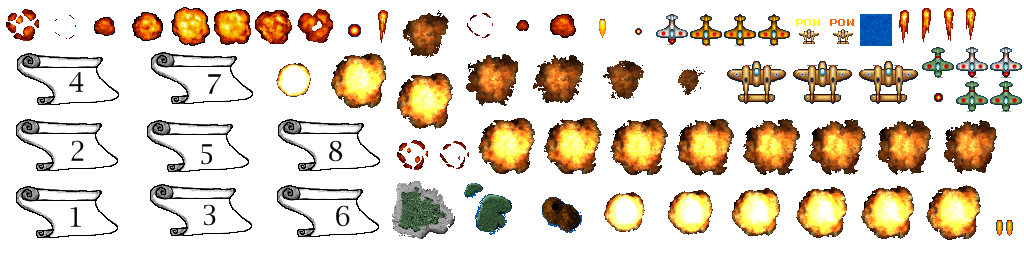
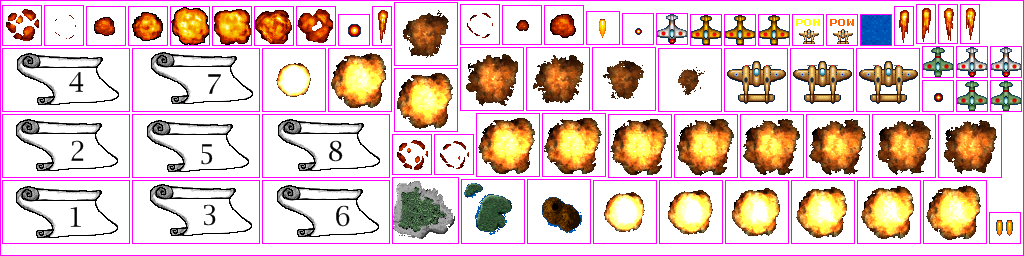
Improve AI, Change JSON, Implement some collisions
EnemySimple now can move towards, turn towards and shoot at, a game
object. Change JSON to specify a spawn limit of enemy type per level.
Implement collision detection for enemy<->enemy, playerBullet<->enemy,
enemyBullet<->player.

diff --git a/core/src/wit/cgd/warbirds/game/WorldController.java b/core/src/wit/cgd/warbirds/game/WorldController.java
@@ -5,6 +5,7 @@ import com.badlogic.gdx.Game;
 import com.badlogic.gdx.Gdx;
 import com.badlogic.gdx.Input.Keys;
 import com.badlogic.gdx.InputAdapter;
+import com.badlogic.gdx.math.Rectangle;
 
 import wit.cgd.warbirds.game.objects.AbstractGameObject;
 import wit.cgd.warbirds.game.objects.Bullet;
@@ -22,6 +23,9 @@ public class WorldController extends InputAdapter {
 	private Game				game;
 	public CameraHelper			cameraHelper;
 	public Level				level;
+	
+	private Rectangle			collisionObject1 = new Rectangle();
+	private Rectangle			collisionObject2 = new Rectangle();
 
 	public WorldController(Game game) {
 		this.game = game;
@@ -42,9 +46,7 @@ public class WorldController extends InputAdapter {
 		cameraHelper.update(deltaTime);
 		level.update(deltaTime);
 		cullObjects();
-		checkBulletEnemyCollision();
-		checkEnemyBulletPlayerCollision();
-		checkEnemyPlayerCollision();
+		testCollisions();
 	}
 
 	/**
@@ -80,9 +82,65 @@ public class WorldController extends InputAdapter {
 	}
 
 	// Collision detection methods
-	public void checkBulletEnemyCollision() {}
-	public void checkEnemyBulletPlayerCollision() {}
-	public void checkEnemyPlayerCollision() {}
+	private void testCollisions(){
+		collisionObject1.set(level.player.position.x, level.player.position.y,level.player.dimension.x,
+				level.player.dimension.y);
+		
+		for(Bullet bullet : level.bullets){
+			collisionObject2.set(bullet.position.x, bullet.position.y, bullet.dimension.x,
+					bullet.dimension.y);
+			if (!collisionObject1.overlaps(collisionObject2)) continue;
+			if(bullet.isSourcePlayer) continue;
+			checkBulletPlayerCollision(bullet);
+		}
+		
+		for(AbstractEnemy currentEnemy : level.enemies){
+			collisionObject1.set(currentEnemy.position.x, currentEnemy.position.y, currentEnemy.dimension.x,
+					currentEnemy.dimension.y);
+			
+			for(Bullet bullet : level.bullets){
+				collisionObject2.set(bullet.position.x, bullet.position.y, bullet.dimension.x,
+						bullet.dimension.y);
+				if (!collisionObject1.overlaps(collisionObject2)) continue;
+				if(!bullet.isSourcePlayer) continue;
+				checkBulletEnemyCollision(currentEnemy, bullet);
+			}
+			
+			for(int i = 0; i < level.enemies.size; ++i){
+				if(currentEnemy.equals(level.enemies.get(i))) continue;
+				collisionObject2.set(level.enemies.get(i).position.x, level.enemies.get(i).position.y,
+						level.enemies.get(i).dimension.x, level.enemies.get(i).dimension.y);
+				if(!collisionObject1.overlaps(collisionObject2)) continue;
+				checkEnemyEnemyCollision(currentEnemy, level.enemies.get(i));
+			}
+		}
+		
+		//checkBulletEnemyCollision();
+		//checkEnemyBulletPlayerCollision();
+		//checkEnemyPlayerCollision();
+		//checkEnemyEnemyCollision();
+	}
+	
+	private void checkBulletEnemyCollision(AbstractEnemy enemy, Bullet bullet) {
+		System.out.println("ENEMY HIT BY BULLET!");
+		enemy.state = AbstractGameObject.State.DEAD;
+		bullet.state = AbstractGameObject.State.DEAD;
+	}
+	
+	private void checkEnemyBulletPlayerCollision() {
+		
+	}
+	
+	private void checkBulletPlayerCollision(Bullet bullet) {
+		System.out.println("PLAYER HIT BY BULLET!");
+		bullet.state = AbstractGameObject.State.DEAD;
+	}
+	
+	private void checkEnemyEnemyCollision(AbstractEnemy current, AbstractEnemy other) {
+		boolean hitLeftSide = current.position.x < (other.position.x + other.dimension.x/2);
+		if(hitLeftSide) current.position.x = other.position.x - other.dimension.x;
+		else current.position.x = other.position.x + other.dimension.x;
+	}
 	
 
 	public boolean isInScreen(AbstractGameObject obj) {

diff --git a/core/src/wit/cgd/warbirds/game/objects/enemies/AbstractEnemy.java b/core/src/wit/cgd/warbirds/game/objects/enemies/AbstractEnemy.java
@@ -45,10 +45,8 @@ public abstract class AbstractEnemy extends AbstractGameObject implements Poolab
 		if(obj != null){
 			if((obj.position.x - position.x < -1)) bullet.velocity.x = -1 * (Constants.BULLET_SPEED/2);
 			else if((obj.position.x - position.x > 1)) bullet.velocity.x = 1 * (Constants.BULLET_SPEED/2);
-			else bullet.velocity.x = 0;
 			if((obj.position.y - position.y < -1)) bullet.velocity.y = -1 * Constants.BULLET_SPEED;
 			else if((obj.position.y - position.y > 1)) bullet.velocity.y = 1 * Constants.BULLET_SPEED/2;
-			else bullet.velocity.y = 0;
 			//bullet.velocity.y = ((obj.position.y - position.y < 0)? -1 : 2) * Constants.BULLET_SPEED;
 		}
 		level.bullets.add(bullet);
@@ -60,9 +58,18 @@ public abstract class AbstractEnemy extends AbstractGameObject implements Poolab
 		float x = position.x-obj.position.x;
 		float y = position.y-obj.position.y;
 		float rotation = (float)Math.toDegrees(MathUtils.atan2(y, x)) - 90;
-		if(rotation > rotation) rotation -= 0.5f;
-		else if(rotation < rotation) rotation += 0.5f;
+		if(this.rotation > rotation && rotation > 0) rotation -= 0.5f;
+		else if(this.rotation < rotation && rotation < 0) rotation += 0.5f;
 		this.rotation = rotation;
+	}
+	
+	public void moveTowards(AbstractGameObject obj){
+		if(obj.position.x-position.x < -1) velocity.x = -0.75f;
+		else if (obj.position.x-position.x > 1) velocity.x = 0.75f;
+		else velocity.x = 0;
+		if(obj.position.y-position.y < -1) velocity.y = -Constants.SCROLL_SPEED;
+		else if (obj.position.y-position.y > 1) velocity.y = 2 * Constants.SCROLL_SPEED;
+		else velocity.y = 0;
 	}
 	
 	public void render (SpriteBatch batch) {
@@ -78,7 +85,7 @@ public abstract class AbstractEnemy extends AbstractGameObject implements Poolab
 	@Override
 	public void reset() {
 		System.out.println("Enemy Reset");
-		velocity.y = 0;
+		velocity.y = -Constants.SCROLL_SPEED;
 		velocity.x = 0;
 		rotation = 0;
 		state = State.ACTIVE;

diff --git a/core/src/wit/cgd/warbirds/game/objects/Level.java b/core/src/wit/cgd/warbirds/game/objects/Level.java
@@ -33,7 +33,7 @@ public class Level extends AbstractGameObject {
 	
 	private String[] islands = {"islandBig","islandSmall","islandTiny"};
 	private float islandTimer;
-	private final float ISLAND_DELAY_TIME = 1f;
+	private final float ISLAND_DELAY_TIME = 1.2f;
 	
 	public final Array<Bullet> bullets = new Array<Bullet>();
 	
@@ -121,10 +121,9 @@ public class Level extends AbstractGameObject {
 		end = position.y + scale.y * Constants.VIEWPORT_HEIGHT;
 
 		player.update(deltaTime);
-		
 		while(enemySimpleLimit > 0 && enemies.size < 3){
-			float x = (randomGenerator.nextInt(((int)Constants.VIEWPORT_WIDTH*2) + 1) - Constants.VIEWPORT_WIDTH);
-			float y = player.position.y;
+			float x = randomGenerator.nextInt(((int)Constants.VIEWPORT_WIDTH))*2 - Constants.VIEWPORT_WIDTH;
+			float y = player.position.y + 2;//end;
 			EnemySimple newEnemy = enemyPools.enemySimplePool.obtain();
 			if(newEnemy.level == null) newEnemy.resetLevel(level);
 			newEnemy.reset();
@@ -145,7 +144,7 @@ public class Level extends AbstractGameObject {
 		
 		if(randomGenerator.nextDouble() < 0.5) return;
 		if(islandTimer > 0) return;
-		float x = (randomGenerator.nextInt(((int)Constants.VIEWPORT_WIDTH*2) + 1) - Constants.VIEWPORT_WIDTH);
+		float x = randomGenerator.nextInt(((int)Constants.VIEWPORT_WIDTH))*2 - Constants.VIEWPORT_WIDTH;
 		float y = end;
 		float scaleX = randomGenerator.nextFloat() + 1f;
 		float scaleY = randomGenerator.nextFloat() + 1f;
@@ -163,9 +162,6 @@ public class Level extends AbstractGameObject {
 		
 		for (Bullet bullet: bullets)
 			bullet.render(batch);
-		
-		//System.out.println("Bullets " + bullets.size);
-		System.out.println("LIMIT : "+enemySimpleLimit);
 	}
 
 }

diff --git a/core/src/wit/cgd/warbirds/game/objects/enemies/EnemySimple.java b/core/src/wit/cgd/warbirds/game/objects/enemies/EnemySimple.java
@@ -8,6 +8,7 @@ import com.badlogic.gdx.math.MathUtils;
 import wit.cgd.warbirds.game.Assets;
 import wit.cgd.warbirds.game.objects.Level;
 import wit.cgd.warbirds.game.objects.Player;
+import wit.cgd.warbirds.game.util.Constants;
 import wit.cgd.warbirds.game.objects.AbstractGameObject;
 import wit.cgd.warbirds.game.objects.AbstractGameObject.State;
 
@@ -33,9 +34,10 @@ public class EnemySimple extends AbstractEnemy{
 	
 	public void update(float deltaTime, Player player){
 		super.update(deltaTime);
+		//if (player.position.y > position.y) return;
 		super.turnTowards(player);
+		super.moveTowards(player);
 		super.shootAt(player);
-		velocity.y = -2;
 		//position.x = level.player.position.x;
 		//position.y = level.end - 3;
 		//shoot();
@@ -44,5 +46,6 @@ public class EnemySimple extends AbstractEnemy{
 	@Override
 	public void reset(){
 		super.reset();
+		health = Constants.ENEMY_SIMPLE_HEALTH;
 	}
 }

diff --git a/core/src/wit/cgd/warbirds/game/objects/Bullet.java b/core/src/wit/cgd/warbirds/game/objects/Bullet.java
@@ -13,6 +13,8 @@ public class Bullet extends AbstractGameObject implements Poolable {
 
 	public static final String TAG = Bullet.class.getName();
 	
+	public boolean isSourcePlayer;	
+	
 	private TextureRegion region;
 	
 	public Bullet(Level level) {
@@ -22,7 +24,8 @@ public class Bullet extends AbstractGameObject implements Poolable {
 	
 	public void init() {
 		dimension.set(0.5f, 0.5f);
-				
+		isSourcePlayer = false;
+		
 		region = Assets.instance.doubleBullet.region;
 
 		// Center image on game object
@@ -45,6 +48,7 @@ public class Bullet extends AbstractGameObject implements Poolable {
 		velocity.y = Constants.BULLET_SPEED;
 		velocity.x = 0;
 		rotation = 0;
+		isSourcePlayer = false;
 		state = State.ACTIVE;
 	}
 }

diff --git a/core/src/wit/cgd/warbirds/game/objects/Player.java b/core/src/wit/cgd/warbirds/game/objects/Player.java
@@ -22,8 +22,8 @@ public class Player extends AbstractGameObject {
 	}
 	
 	public void init() {
-		dimension.set(1, 1);
-				
+		dimension.set(1, 1);	
+		
 		animation = Assets.instance.player.animationNormal;
 		setAnimation(animation);
 
@@ -53,7 +53,7 @@ public class Player extends AbstractGameObject {
 		Bullet bullet = level.bulletPool.obtain();
 		bullet.reset();
 		bullet.position.set(position);
-		
+		bullet.isSourcePlayer =true;
 		level.bullets.add(bullet);
 		timeShootDelay = Constants.PLAYER_SHOOT_DELAY;
 

diff --git a/core/src/wit/cgd/warbirds/game/objects/AbstractGameObject.java b/core/src/wit/cgd/warbirds/game/objects/AbstractGameObject.java
@@ -5,6 +5,7 @@ import wit.cgd.warbirds.game.util.Constants;
 import com.badlogic.gdx.graphics.g2d.Animation;
 import com.badlogic.gdx.graphics.g2d.SpriteBatch;
 import com.badlogic.gdx.graphics.g2d.TextureRegion;
+import com.badlogic.gdx.math.Rectangle;
 import com.badlogic.gdx.math.Vector2;
 import com.badlogic.gdx.utils.Pool.Poolable;
 

diff --git a/desktop/src/wit/cgd/warbirds/desktop/DesktopLauncher.java b/desktop/src/wit/cgd/warbirds/desktop/DesktopLauncher.java
@@ -9,7 +9,7 @@ import com.badlogic.gdx.tools.texturepacker.TexturePacker.Settings;
 public class DesktopLauncher {
 
 	private static boolean	rebuildAtlas		= true;
-	private static boolean	drawDebugOutline	= false;
+	private static boolean	drawDebugOutline	= true;
 
 	public static void main (String[] arg) {
 		
